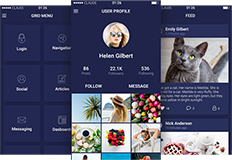
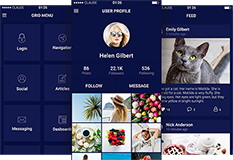
fix(common) update theme keys

diff --git a/app/app.js b/app/app.js
@@ -1,5 +1,8 @@
 import React from 'react';
-import {DrawerNavigator, StackNavigator} from 'react-navigation';
+import {
+  DrawerNavigator,
+  StackNavigator
+} from 'react-navigation';
 import {withRkTheme} from 'react-native-ui-kitten';
 import {AppRoutes} from './config/routesBuilder';
 import * as Screens from './screens';

diff --git a/app/screens/social/profileSettings.js b/app/screens/social/profileSettings.js
@@ -137,7 +137,7 @@ let styles = RkStyleSheet.create(theme => ({
     backgroundColor: theme.colors.screen.base
   },
   header: {
-    backgroundColor: theme.colors.back.neutral,
+    backgroundColor: theme.colors.screen.neutral,
     paddingVertical: 25
   },
   section: {

diff --git a/app/screens/messaging/chat.js b/app/screens/messaging/chat.js
@@ -166,7 +166,7 @@ let styles = RkStyleSheet.create(theme => ({
     flexDirection: 'row',
     minHeight: 60,
     padding: 10,
-    backgroundColor: theme.colors.back.disabled
+    backgroundColor: theme.colors.screen.alter
   },
   item: {
     marginVertical: 14,
